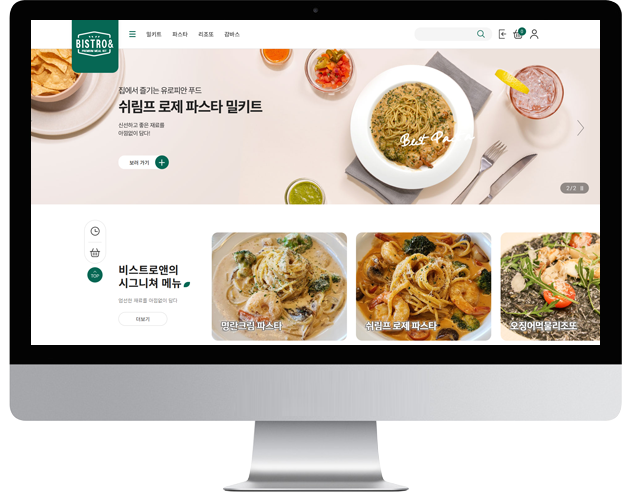
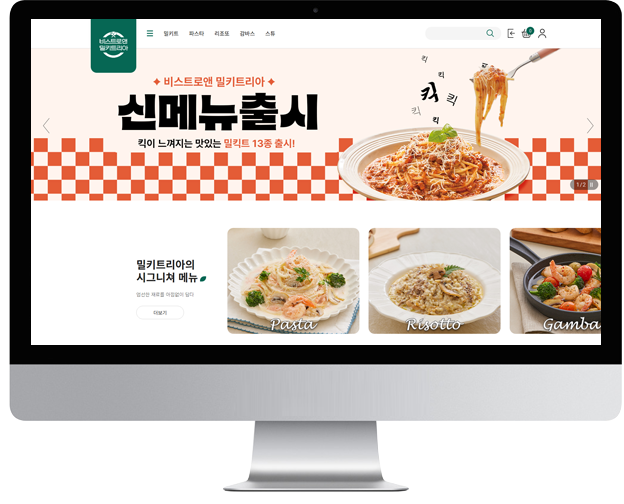
'portfolio이미지수정질문답변삭제'

diff --git a/src/components/apps/AppPortfolio.vue b/src/components/apps/AppPortfolio.vue
@@ -117,36 +117,39 @@ const portfolios = [
     img: '/img/portfolio/list/portfolio_bistroand.png',
     subtitle: '쇼핑몰 시스템 구축',
     desc: [
-      '전체 작업 100%',
-      '자사몰 : 카페24 쇼핑몰 커스터마이징',
-      '주문 통합관리 시스템 (쿠팡, 네이버 스마트 스토어, 옥션, 지마켓)',
-      '로고, 배너, 상세페이지 디자인 및 사진 촬영, 영상 촬영',
-      '심사 및 결제 관련 업무',
+      '상세페이지 제외한 모든 업무 진행',
+      '클라이언트 상담 및 견적 & 제안',
+      '멀티 마켓 설정 (쿠팡, 네이버 스마트 스토어, 옥션, 지마켓)',
+      'SNS 로그인설정(카카오, 네이버)',
+      '자사몰 결제시스템, 네이버 결제 시스템',
+      '쇼핑몰 관리방법 교육',
+      'pc버전, 모바일 버전 퍼블리싱',
+      '상세페이지 : 요구사항 정의 및 디자이너에게 전달',
     ],
     tabs: [
       {
         tabid: 1,
         name: 'tab1',
-        label: '감바스',
+        label: '메인',
         type: 'img',
-        src: '/img/portfolio/detail/bistroandG.jpg',
-        desc: '감바스',
+        src: '/img/portfolio/detail/bistroandMain.jpg',
+        desc: '메인',
       },
       {
         tabid: 2,
         name: 'tab2',
-        label: '오징어 먹물 리조또',
+        label: '상품 리스트',
         type: 'img',
-        src: '/img/portfolio/detail/bistroandO.jpg',
-        desc: '오징어 먹물 리조또',
+        src: '/img/portfolio/detail/bistroandList.jpg',
+        desc: '상품 리스트',
       },
       {
         tabid: 3,
         name: 'tab3',
-        label: '로제 파스타 밀키트',
+        label: '상세페이지',
         type: 'img',
-        src: '/img/portfolio/detail/bistroandR.jpg',
-        desc: '로제 파스타 밀키트',
+        src: '/img/portfolio/detail/bistroandDetail.jpg',
+        desc: '상세페이지',
       },
     ],
   },

diff --git a/src/components/apps/AppQna.vue b/src/components/apps/AppQna.vue
@@ -40,18 +40,6 @@ const items = [
     q: '구직중이세요?',
     a: '구직중이며, 취업이 확정되면 포트폴리오 사이트를 닫을 예정 입니다.',
   },
-  {
-    q: '현재 회사와 거리가 좀 먼데, 합겹하신 다면 출근은 어떻게 하실 계획이세요?',
-    a: '채용이 확정되면, 회사 근처로 이사를 계획하고 있습니다.',
-  },
-  {
-    q: '리액트도 가능하세요?',
-    a: '리액트는 vue랑 비슷해서, 빠르게 배울 수 있기는 하지만, 뭔지 궁금해서 대략 살펴본 정도라, 지금 바로 리액트로 프로젝트를 수행하기에는 다소 무리가 있을것같습니다.',
-  },
-  {
-    q: '자바도 가능하세요?',
-    a: '자바는 추후 학습 계획이 있고, 현재는 준비되지 않았습니다.',
-  },
 ]
 </script>
 <style scoped>

diff --git a/src/layouts/MainLayout.vue b/src/layouts/MainLayout.vue
@@ -16,9 +16,9 @@
         <div ref="section4">
           <AppEdu />
         </div>
-        <div ref="section5">
+        <!-- <div ref="section5">
           <AppQna />
-        </div>
+        </div> -->
       </q-page>
     </q-page-container>
     <AppFooter />
@@ -32,7 +32,7 @@ import AppFooter from './footer/AppFooter.vue'
 import AppCarousel from 'src/components/apps/AppCarousel.vue'
 import AppPortfolio from 'src/components/apps/AppPortfolio.vue'
 import AppTech from 'src/components/apps/AppTech.vue'
-import AppQna from 'src/components/apps/AppQna.vue'
+// import AppQna from 'src/components/apps/AppQna.vue'
 import AppCareer from 'src/components/apps/AppCareer.vue'
 import AppEdu from 'src/components/apps/AppEdu.vue'
 

diff --git a/src/components/apps/AppEdu.vue b/src/components/apps/AppEdu.vue
@@ -74,7 +74,7 @@ const rows2 = [
   },
   {
     category: 'nodejs',
-    list: '생활코딩 nodejs, nodejs 교과서, 코드캠프 백앤드',
+    list: 'nodejs 교과서, 코드캠프 백앤드',
   },
   {
     category: 'php',

diff --git a/src/layouts/header/AppHeader.vue b/src/layouts/header/AppHeader.vue
@@ -74,7 +74,6 @@ const menus = [
   { name: '기술', to: 'section2' },
   { name: '경력', to: 'section3' },
   { name: '교육', to: 'section4' },
-  { name: '질문답변', to: 'section5' },
 ]
 
 const toggleDrawer = () => {

diff --git a/src/components/apps/AppTech.vue b/src/components/apps/AppTech.vue
@@ -27,7 +27,7 @@ const rows = [
   },
   {
     name: '프론트엔드',
-    field: 'vuejs, nuxt, vuetify, quasar',
+    field: 'vue.js, nuxt, vuetify, quasar',
   },
   {
     name: '백엔드',
